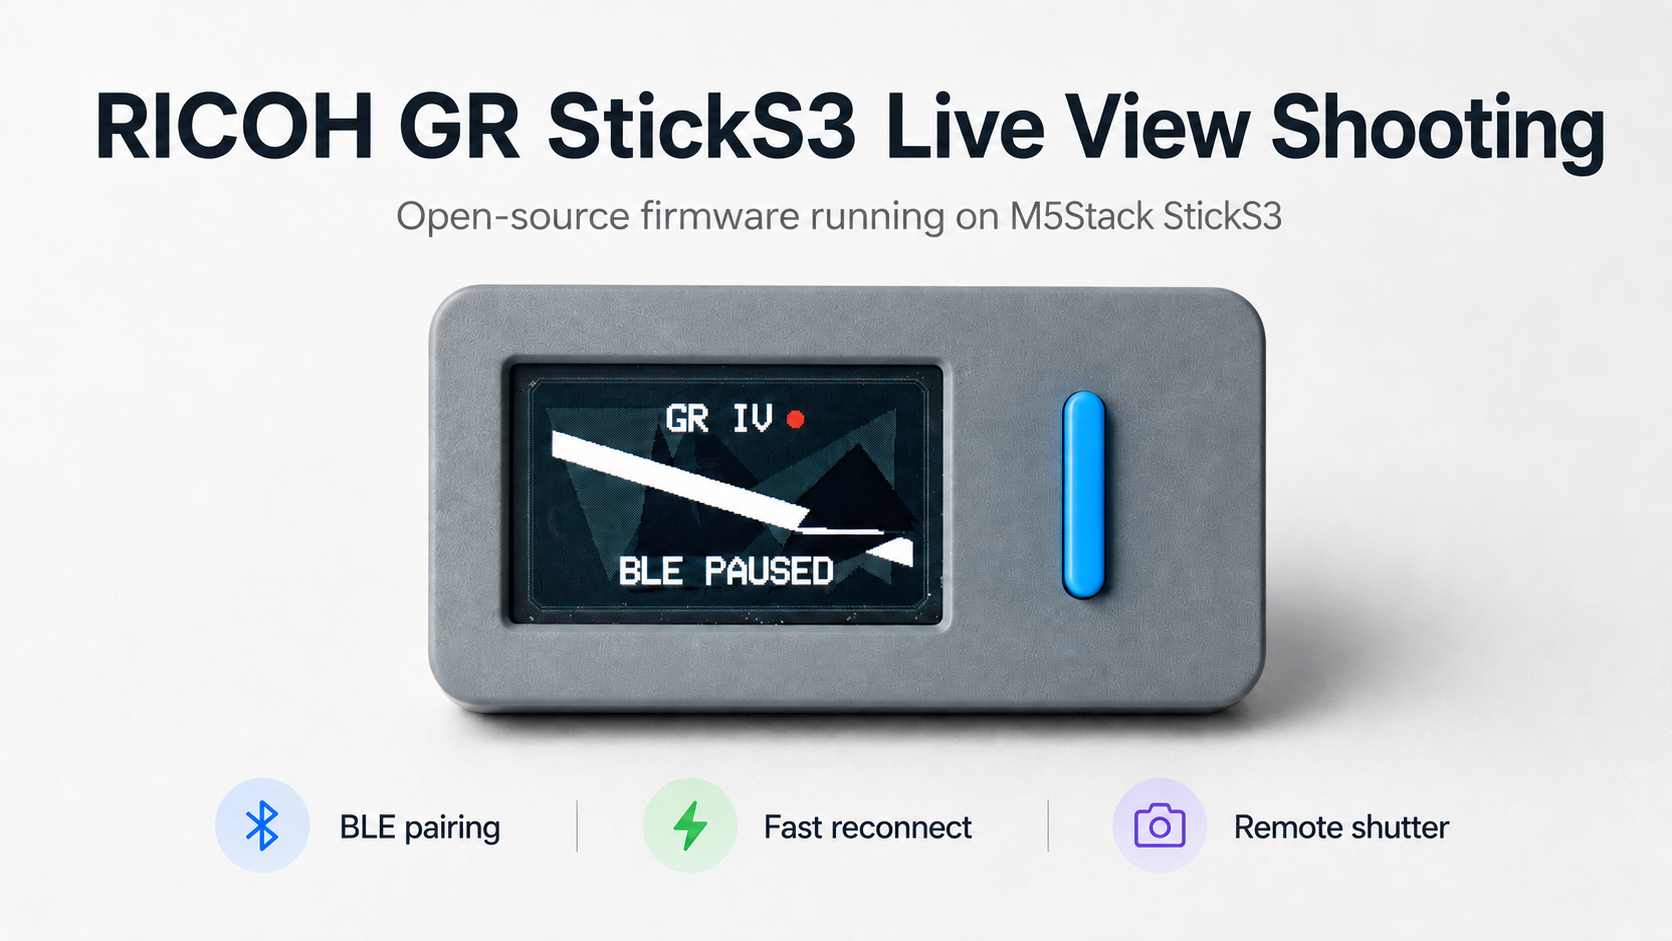
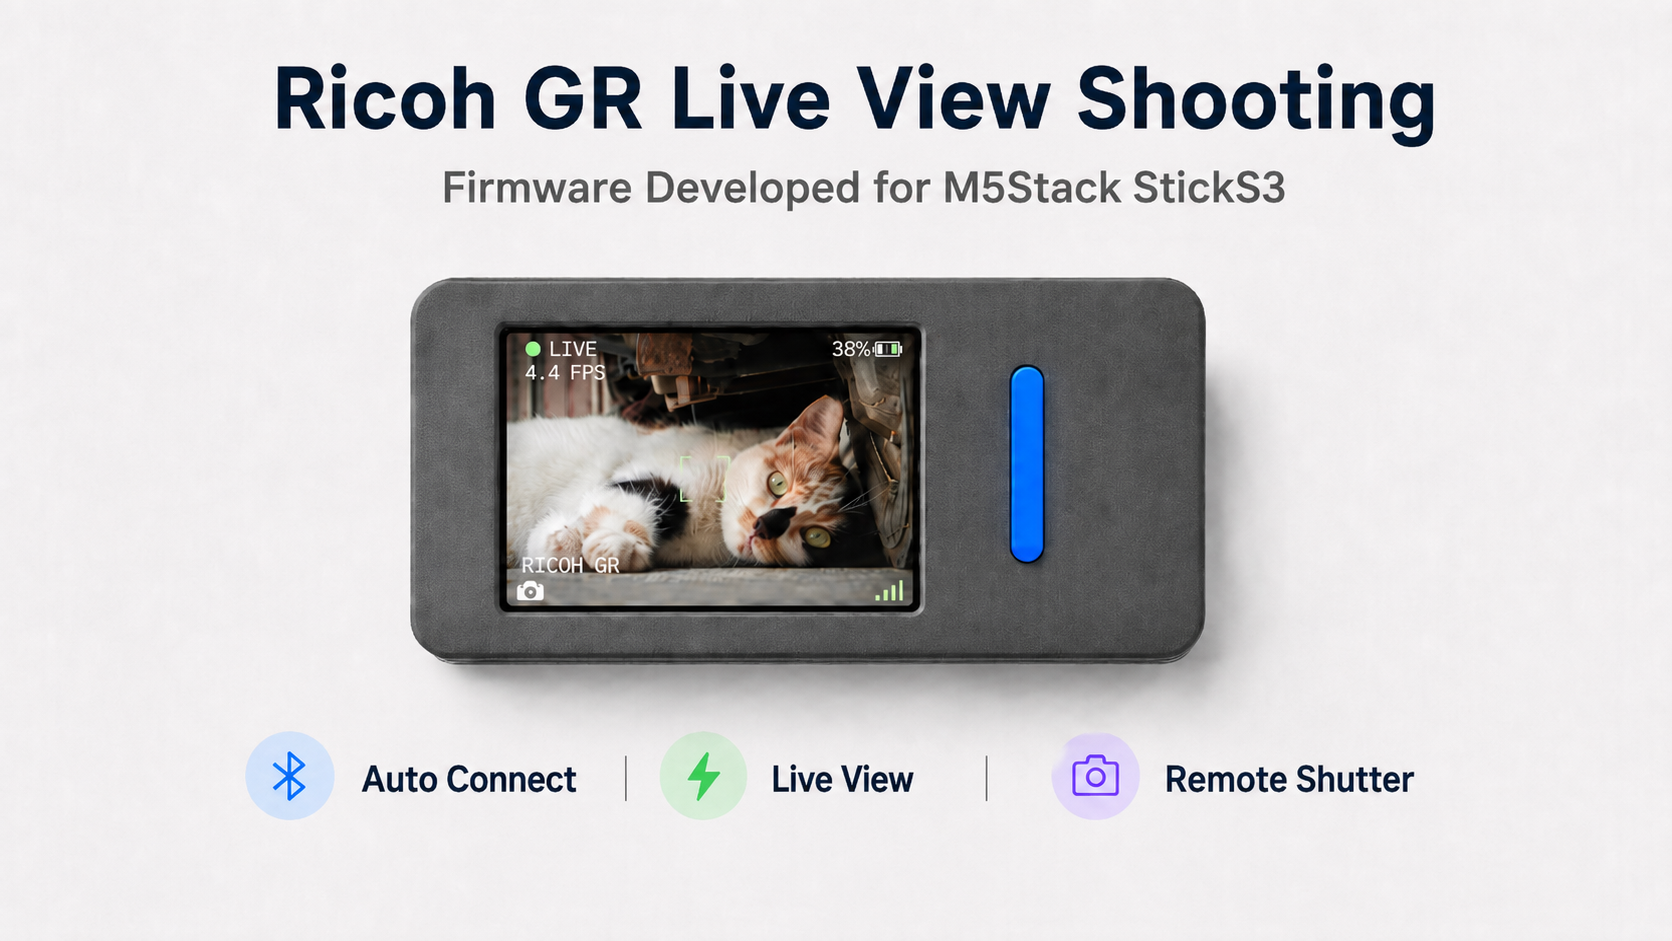
ui: refactor boot screen design and update documentation assets

diff --git a/src/display.cpp b/src/display.cpp
@@ -94,33 +94,63 @@ bool DisplayUi::begin() {
 void DisplayUi::showBoot(const char* message) {
     clear(COLOR_BG);
 
-    // Large stylish GR logo in signature amber
-    _canvas.setTextColor(COLOR_AMBER, COLOR_BG);
+    // Outer card border (matching BLE status screen)
+    const int16_t x = 8;
+    const int16_t y = 6;
+    const int16_t w = _width - 16;
+    const int16_t h = _height - 12;
+    _canvas.fillRoundRect(x, y, w, h, 10, COLOR_CARD);
+    _canvas.drawRoundRect(x, y, w, h, 10, COLOR_GRAPHITE);
+    _canvas.drawRoundRect(x + 2, y + 2, w - 4, h - 4, 8, COLOR_SLATE);
+
+    // Abstract dark geometric lens elements
+    _canvas.fillTriangle(x + 10, y + 16, x + 94, y + 16, x + 45, y + 106, COLOR_PANEL);
+    _canvas.fillTriangle(x + 92, y + 18, x + 142, y + 68, x + 98, y + 112, COLOR_DARK);
+    _canvas.fillTriangle(x + 120, y + 60, x + 205, y + 16, x + 202, y + 108, COLOR_PANEL);
+    _canvas.fillTriangle(x + 118, y + 62, x + 166, y + 112, x + 210, y + 80, COLOR_SLATE);
+    _canvas.fillTriangle(x + 142, y + 72, x + 184, y + 34, x + 216, y + 74, COLOR_DARK);
+    _canvas.fillTriangle(x + 72, y + 24, x + 108, y + 110, x + 56, y + 112, COLOR_DARK);
+
+    // Diagonal light leak highlight band
+    const int16_t hx1 = x + 14;
+    const int16_t hy1 = y + 28;
+    const int16_t hx2 = x + 214;
+    const int16_t hy2 = y + 86;
+    const int16_t band = 12;
+    _canvas.fillTriangle(hx1, hy1, hx2, hy2, hx2, hy2 + band, COLOR_HILITE);
+    _canvas.fillTriangle(hx1, hy1, hx2, hy2 + band, hx1, hy1 + band, COLOR_HILITE);
+
+    // Layered aperture overlays
+    _canvas.fillTriangle(x + 150, y + 78, x + 184, y + 34, x + 216, y + 80, COLOR_DARK);
+    _canvas.fillTriangle(x + 146, y + 82, x + 210, y + 82, x + 134, y + 112, COLOR_DARK);
+
+    // Overlaid brand content with transparent background text
+    _canvas.setTextColor(COLOR_AMBER);
     _canvas.setTextSize(3);
     _canvas.setCursor(102, 20);
     _canvas.print("GR");
 
     // Subtitle
     _canvas.setTextSize(1);
-    _canvas.setTextColor(COLOR_WHITE, COLOR_BG);
+    _canvas.setTextColor(COLOR_WHITE);
     _canvas.setCursor(84, 52);
     _canvas.print("VIEWFINDER");
 
-    // Glowing progress bar outline
-    _canvas.drawRoundRect(40, 72, 160, 6, 3, COLOR_SLATE);
-    _canvas.fillRoundRect(42, 74, 60, 2, 1, COLOR_AMBER);
+    // Progress bar matching the layout
+    _canvas.drawRoundRect(40, 70, 160, 6, 3, COLOR_GRAPHITE);
+    _canvas.fillRoundRect(42, 72, 60, 2, 1, COLOR_AMBER);
 
-    // Boot status message
-    _canvas.setTextColor(COLOR_GRAY, COLOR_BG);
+    // Dynamic boot status message
+    _canvas.setTextColor(COLOR_GRAY);
     const char* msg = safeText(message, "Booting...");
     int msgLen = strlen(msg);
-    _canvas.setCursor((240 - (msgLen * 6)) / 2, 88);
+    _canvas.setCursor((240 - (msgLen * 6)) / 2, 86);
     _canvas.print(msg);
 
-    // Footer divider and hotkeys
+    // Footer divider and hotkeys hint
     _canvas.drawFastHLine(20, _height - 24, 200, COLOR_SLATE);
-    _canvas.setCursor(33, _height - 16);
-    _canvas.print("BtnA: shutter / wake");
+    _canvas.setCursor(60, _height - 16);
+    _canvas.print("BtnA: Shutter / Wake");
 
     pushCanvas();
 }